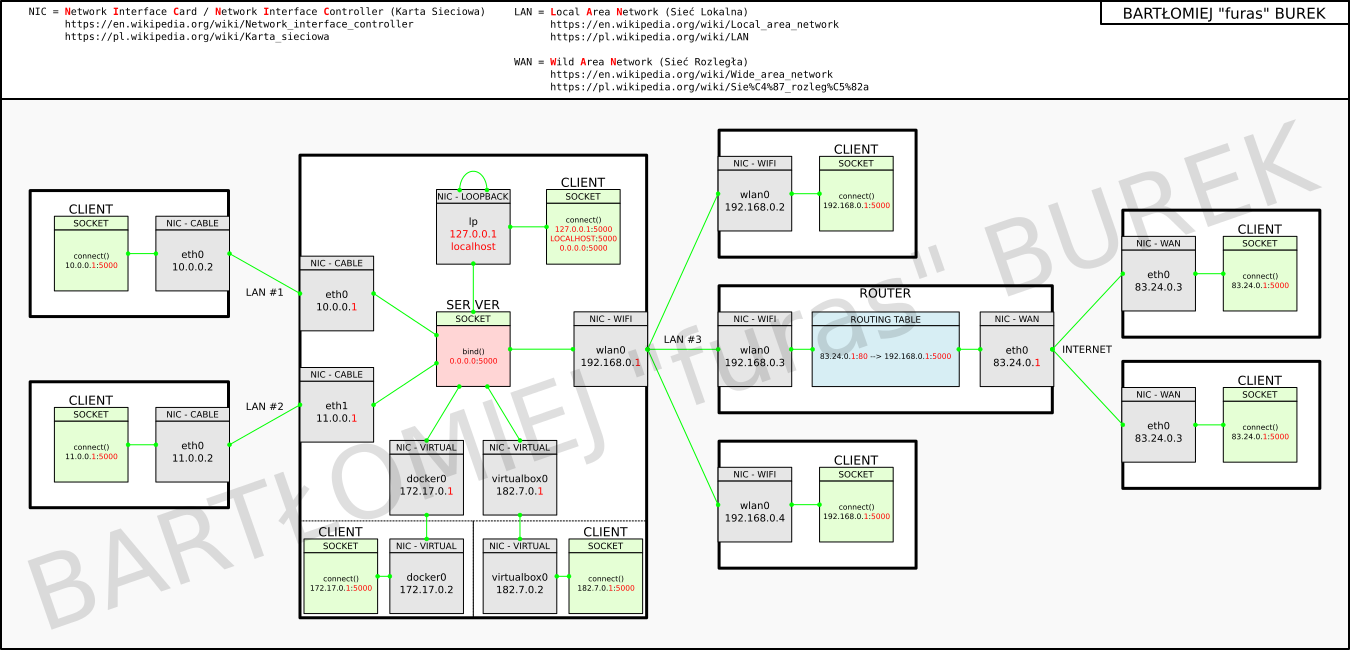
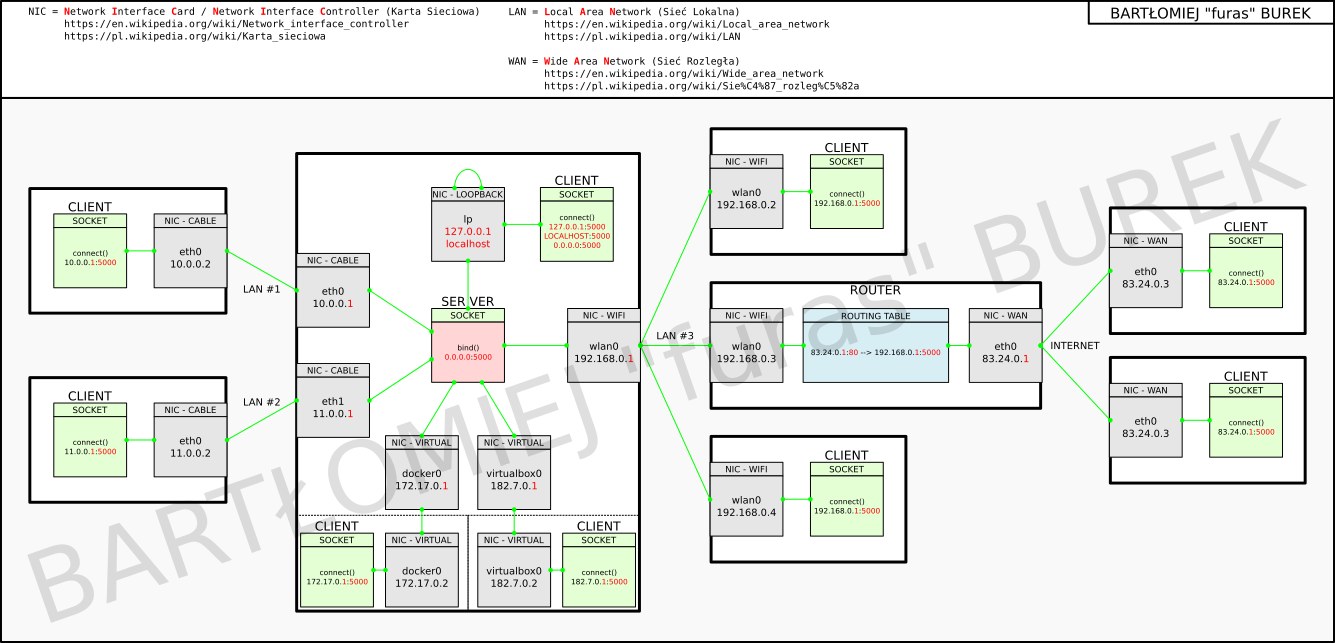
sockets images

diff --git a/socket/README.md b/socket/README.md
@@ -15,3 +15,16 @@ Example of simple protocol to send data. First it sends size of data as 4 bytes.
 ## New version (2017.02.21) (still not complete)
 
 ![#2](images/sockets_ver1.png?raw=true)
+
+**NIC** = **N**etwork **I**nterface **C**ard / **N**etwork **I**nterface **C**ontroller (Karta Sieciowa)
+
+Wikipedia:  (GB) [Network Interface Controller](https://en.wikipedia.org/wiki/Network_interface_controller),
+(PL) [Karta Sieciowa](https://pl.wikipedia.org/wiki/Karta_sieciowa)
+
+**LAN** = **L**ocal **A**rea **N**etwork (Sieć Lokalna)
+
+Wikipedia: (GB) [Local Area Network](https://en.wikipedia.org/wiki/Local_area_network), (PL) [LAN](https://pl.wikipedia.org/wiki/LAN)
+
+**WAN** = **W**ide **A**rea **N**etwork (Sieć Rozległa)
+
+Wikipedia: (GB) [Wide_area_network](https://en.wikipedia.org/wiki/Wide_area_network), (PL) [Sieć Rozległa](https://pl.wikipedia.org/wiki/Sie%C4%87_rozleg%C5%82a)
